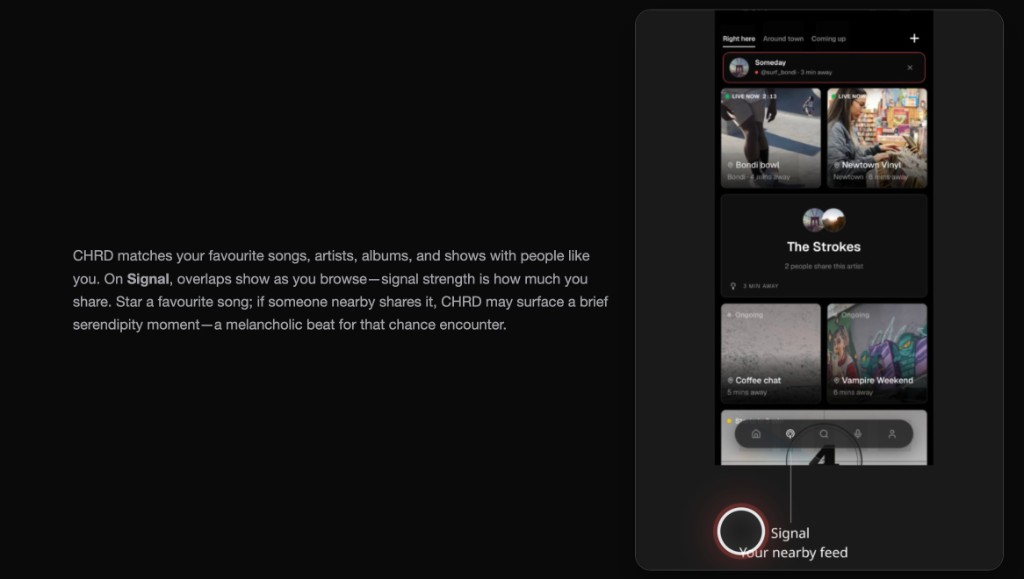
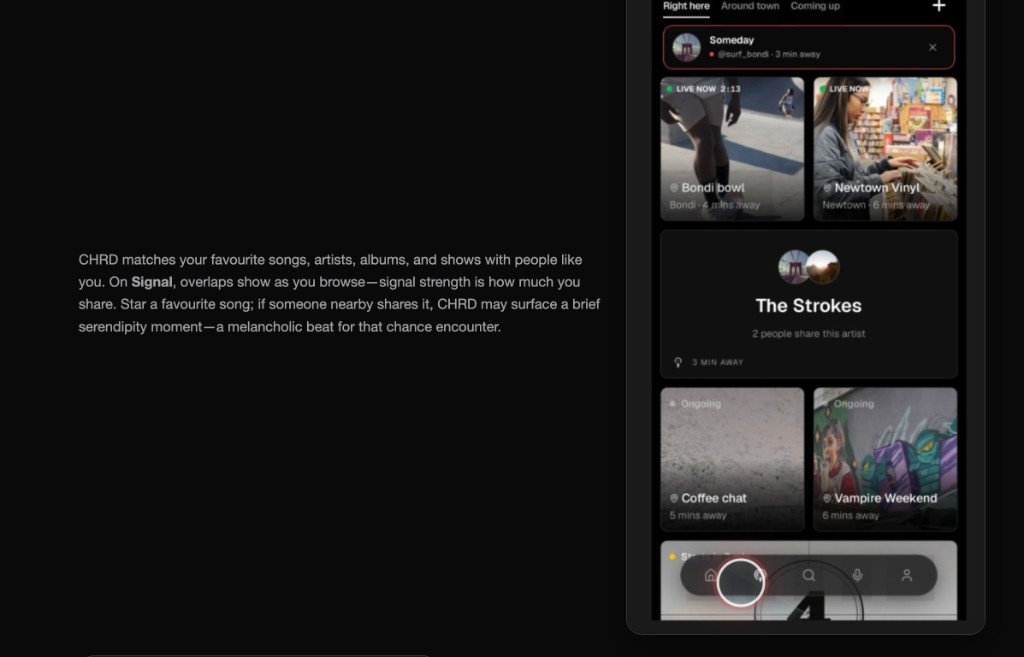
Walkthrough: refresh Signal intro composite (clean nav)

Changed region(s): [[0.625, 0.0, 0.9688, 0.9948], [0.0625, 0.3731, 0.5938, 0.5907], [0.0938, 0.9948, 0.4375, 1.0]]

diff --git a/3bf5da56cb82/index.html b/3bf5da56cb82/index.html
@@ -406,9 +406,9 @@
         </div>
         <figure class="intro-signal-figure">
           <img
-            src="images/signal-intro-composite.jpg?v=1"
+            src="images/signal-intro-composite.jpg?v=2"
             width="1024"
-            height="579"
+            height="657"
             alt="CHRD copy beside the Signal feed mockup with time tabs and capsule nav"
             loading="lazy"
             decoding="async"
